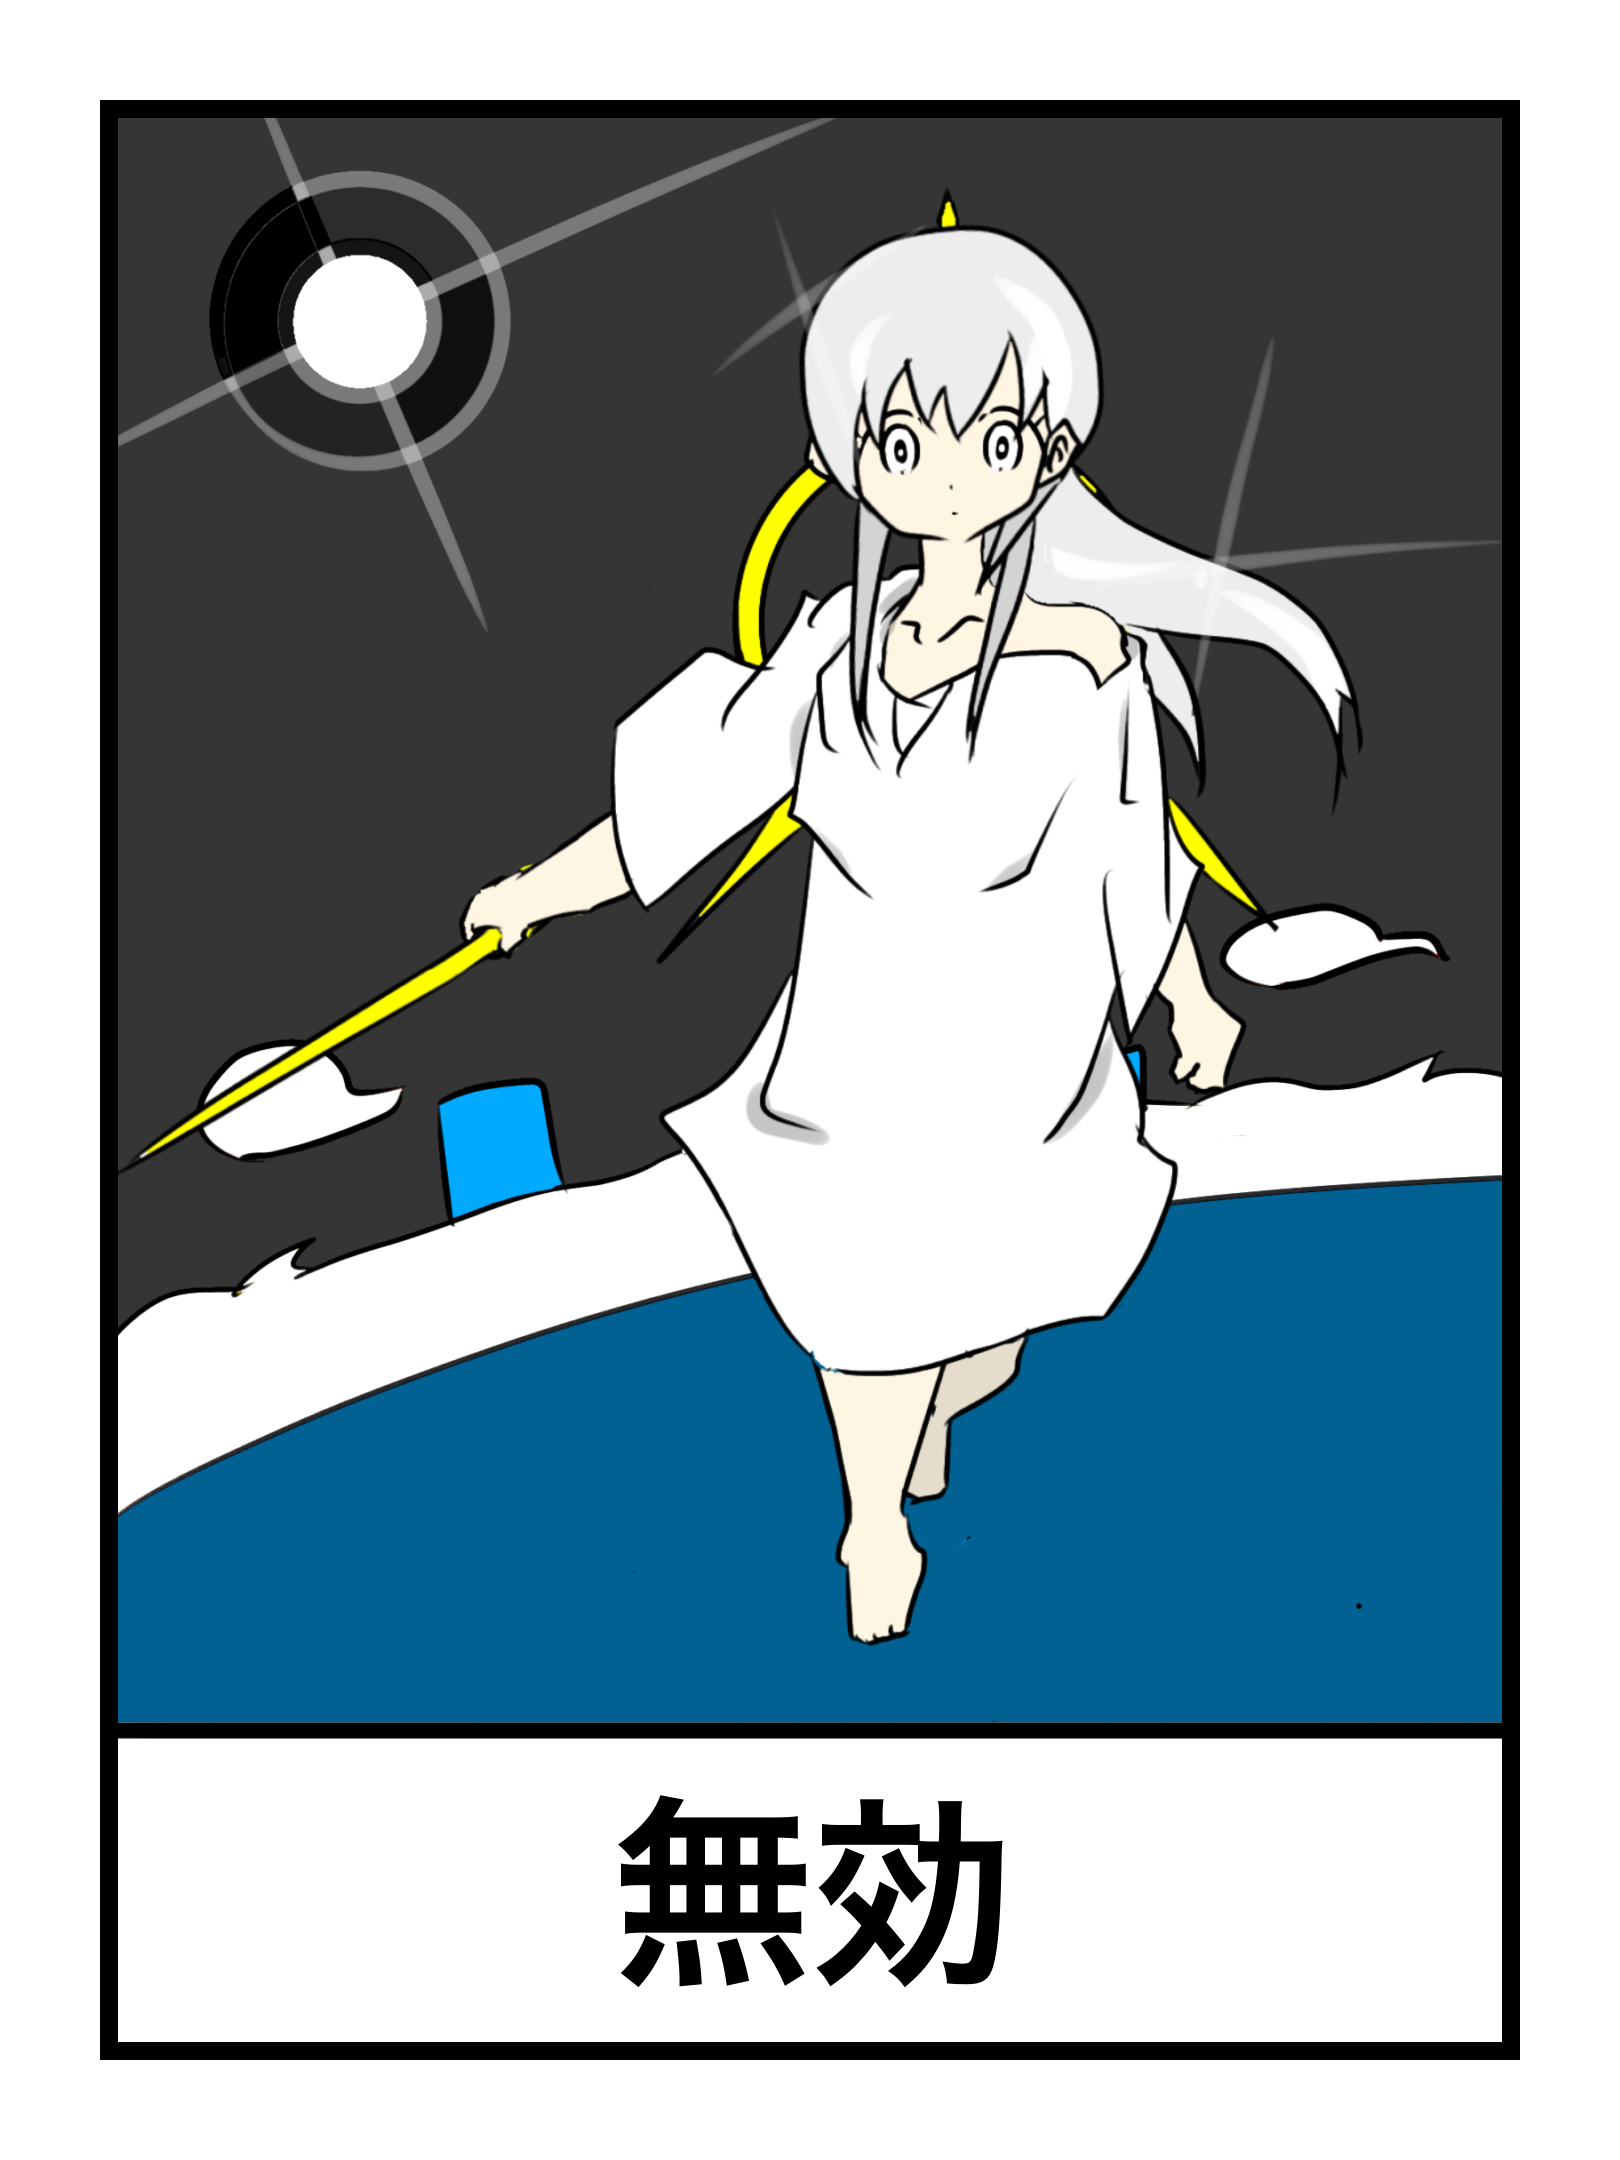
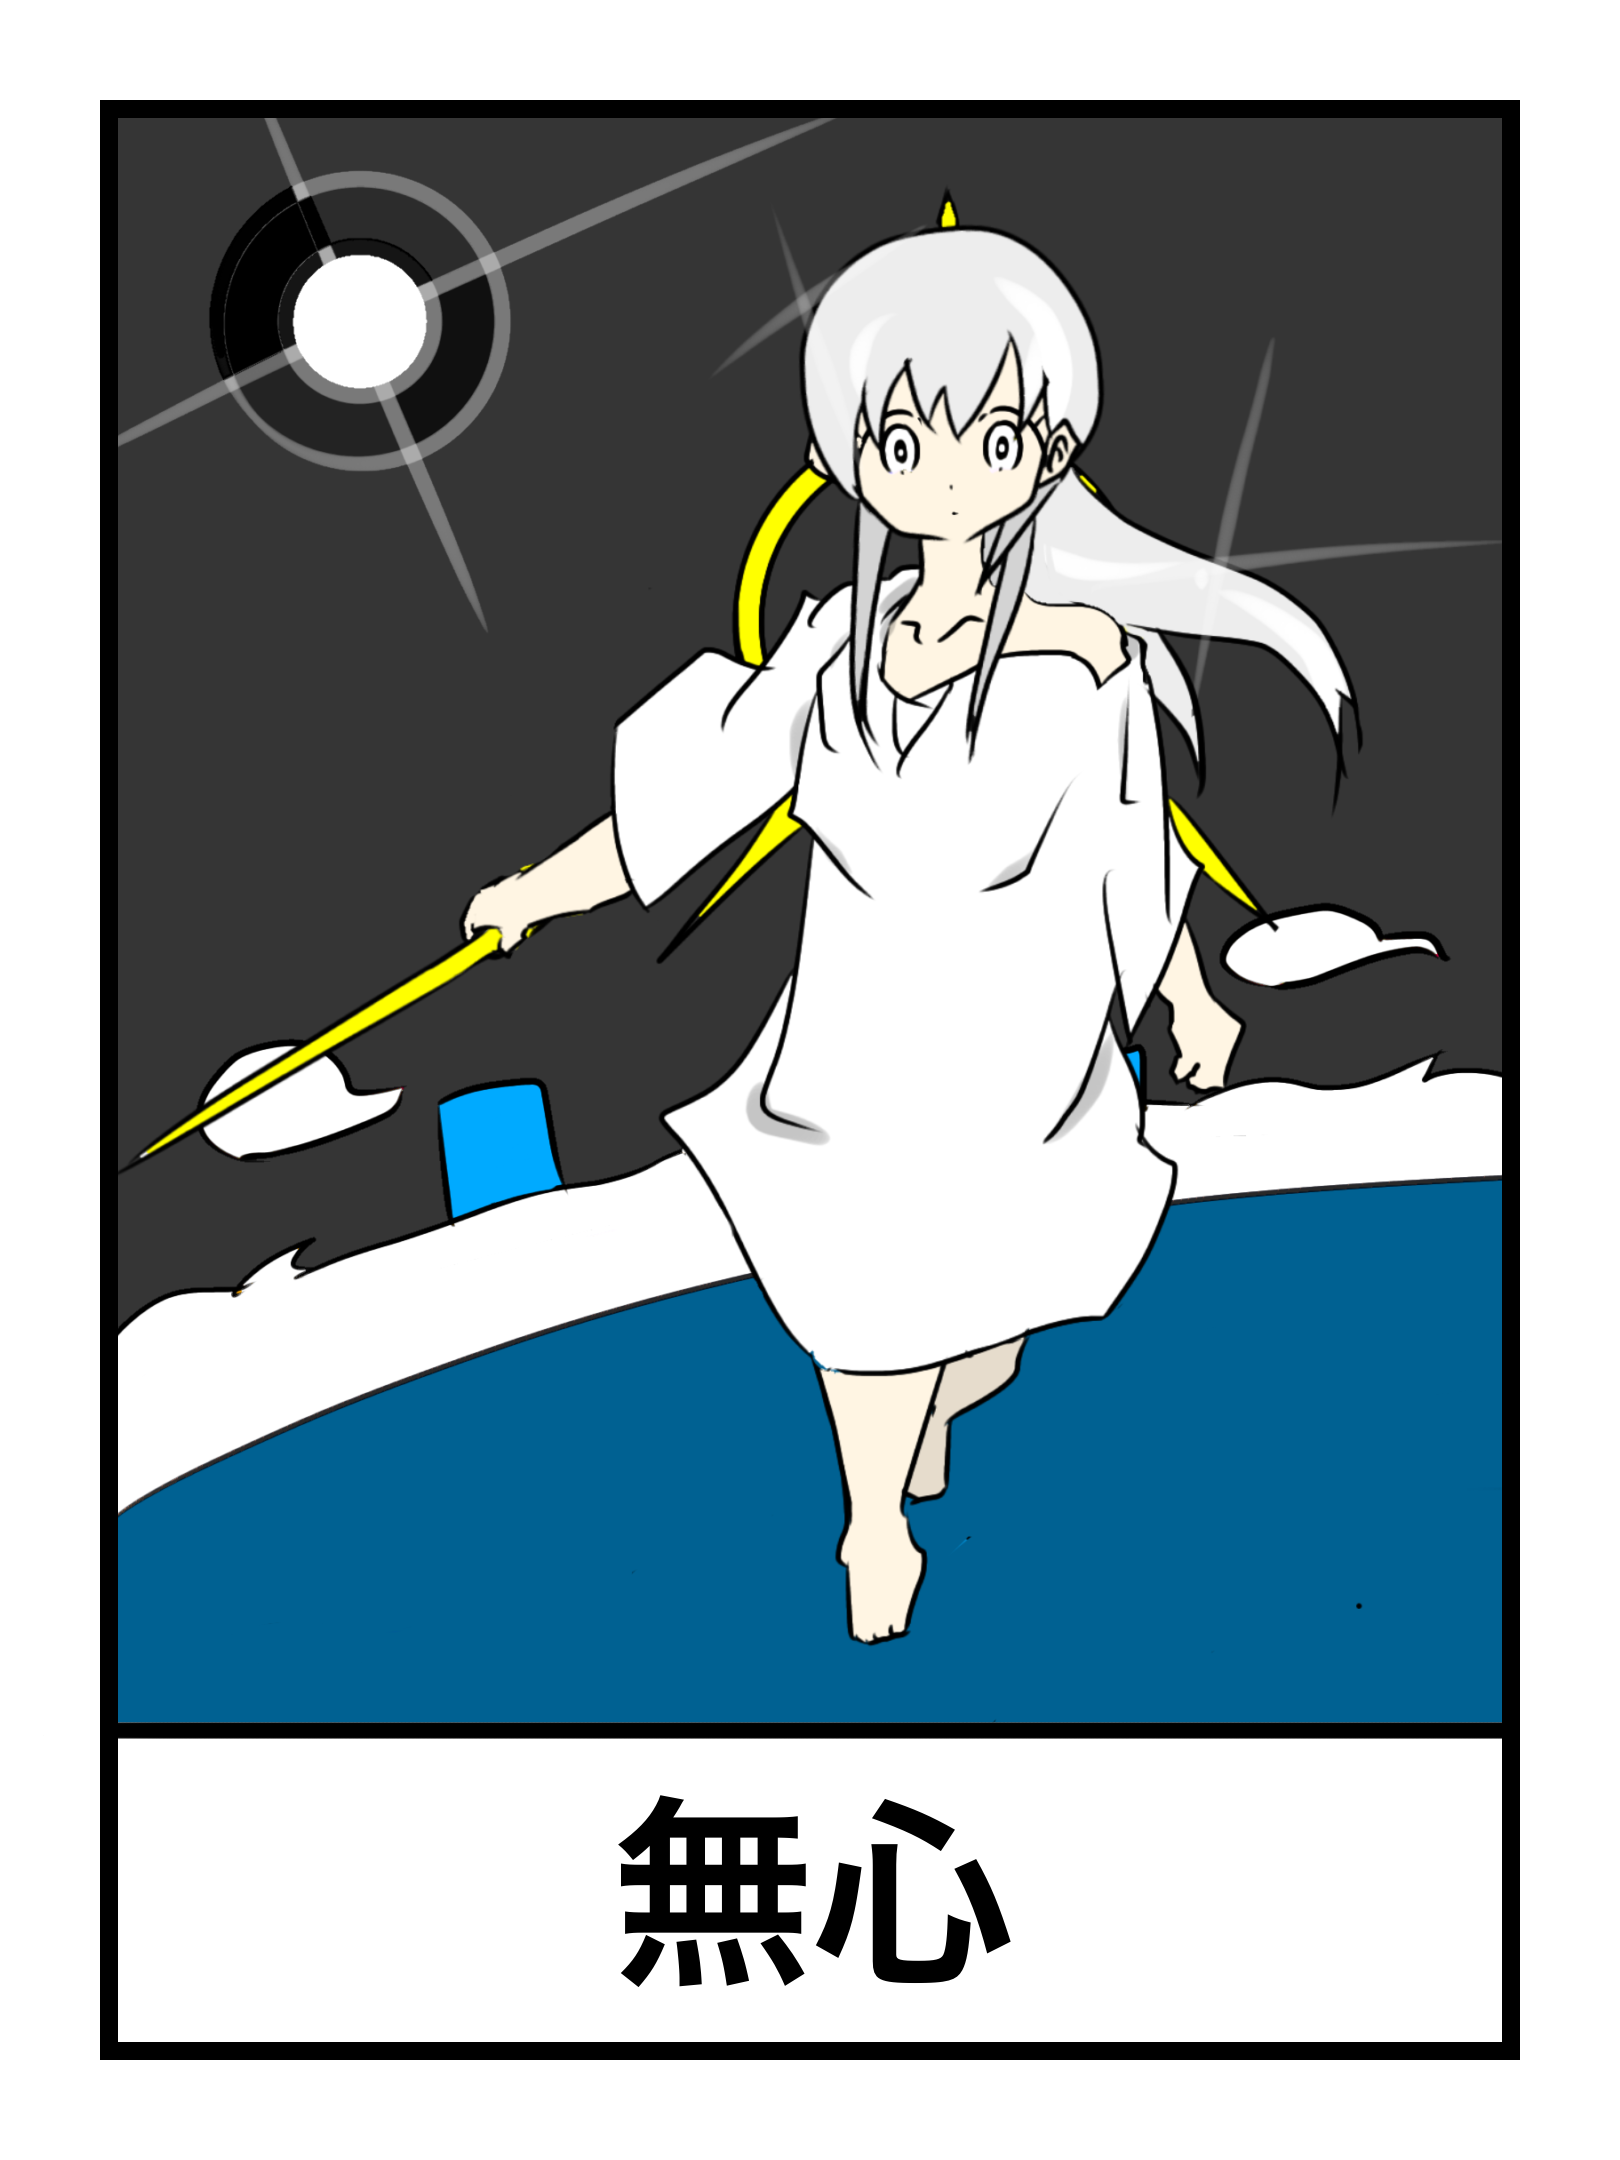
fix

Changed region(s): [[0.4938, 0.8065, 0.6173, 0.9306]]

diff --git a/static/tarot/app.js b/static/tarot/app.js
@@ -1,2 +1,2 @@
-(function(t){function r(r){for(var n,i,c=r[0],p=r[1],l=r[2],f=0,s=[];f<c.length;f++)i=c[f],Object.prototype.hasOwnProperty.call(o,i)&&o[i]&&s.push(o[i][0]),o[i]=0;for(n in p)Object.prototype.hasOwnProperty.call(p,n)&&(t[n]=p[n]);u&&u(r);while(s.length)s.shift()();return a.push.apply(a,l||[]),e()}function e(){for(var t,r=0;r<a.length;r++){for(var e=a[r],n=!0,c=1;c<e.length;c++){var p=e[c];0!==o[p]&&(n=!1)}n&&(a.splice(r--,1),t=i(i.s=e[0]))}return t}var n={},o={app:0},a=[];function i(r){if(n[r])return n[r].exports;var e=n[r]={i:r,l:!1,exports:{}};return t[r].call(e.exports,e,e.exports,i),e.l=!0,e.exports}i.m=t,i.c=n,i.d=function(t,r,e){i.o(t,r)||Object.defineProperty(t,r,{enumerable:!0,get:e})},i.r=function(t){"undefined"!==typeof Symbol&&Symbol.toStringTag&&Object.defineProperty(t,Symbol.toStringTag,{value:"Module"}),Object.defineProperty(t,"__esModule",{value:!0})},i.t=function(t,r){if(1&r&&(t=i(t)),8&r)return t;if(4&r&&"object"===typeof t&&t&&t.__esModule)return t;var e=Object.create(null);if(i.r(e),Object.defineProperty(e,"default",{enumerable:!0,value:t}),2&r&&"string"!=typeof t)for(var n in t)i.d(e,n,function(r){return t[r]}.bind(null,n));return e},i.n=function(t){var r=t&&t.__esModule?function(){return t["default"]}:function(){return t};return i.d(r,"a",r),r},i.o=function(t,r){return Object.prototype.hasOwnProperty.call(t,r)},i.p="/";var c=window["webpackJsonp"]=window["webpackJsonp"]||[],p=c.push.bind(c);c.push=r,c=c.slice();for(var l=0;l<c.length;l++)r(c[l]);var u=p;a.push([0,"chunk-vendors"]),e()})({0:function(t,r,e){t.exports=e("56d7")},"034f":function(t,r,e){"use strict";e("85ec")},"56d7":function(t,r,e){"use strict";e.r(r);var n=e("2b0e"),o=function(){var t=this,r=t.$createElement,e=t._self._c||r;return e("div",{attrs:{id:"app"}},[e("button",{on:{click:t.picker}},[e("i",{staticClass:"far fa-play-circle"}),t._v(" START")]),t.chosenName.file?e("p",[e("img",{attrs:{src:t.chosenName.file}}),t._v(" "),e("img",{attrs:{src:t.cnt.file}})]):e("p",[e("img",{attrs:{src:t.tarotz}})]),e("p"),e("blockquote",[t.chosenName.p?e("p",[t._v(t._s(t.chosenName.p))]):e("p",[e("strong",[t._v("タロットカード")])]),e("p",[t._v(t._s(t.cnt.p))])])])},a=[],i=e("cb11"),c={data(){return{items:i,chosenName:"",cnt:"",tarotz:"/ai/tarot/tarot_card_00.png"}},methods:{picker:function(){var t=Math.floor(Math.random()*i.length),r=Math.floor(Math.random()*i.length);this.chosenName=i[t];while(t===r)r=Math.floor(Math.random()*i.length);this.cnt=i[r];var e=document.querySelector("button");e.remove()}}},p=c,l=(e("034f"),e("2877")),u=Object(l["a"])(p,o,a,!1,null,null,null),f=u.exports;n["a"].config.productionTip=!1,new n["a"]({render:t=>t(f)}).$mount("#app")},"85ec":function(t,r,e){},cb11:function(t){t.exports=JSON.parse('[{"id":"1","h":"夢","file":"/ai/tarot/tarot_card_01.png","p":"願望の成熟"},{"id":"2","h":"忍者","file":"/ai/tarot/tarot_card_02.png","p":"忍耐や隠れ忍ぶこと"},{"id":"3","h":"昼寝","file":"/ai/tarot/tarot_card_03.png","p":"休憩や休息"},{"id":"4","h":"無効","file":"/ai/tarot/tarot_card_04.png","p":"無我や無心"},{"id":"5","h":"天国","file":"/ai/tarot/tarot_card_05.png","p":"居心地や環境"},{"id":"6","h":"金","file":"/ai/tarot/tarot_card_06.png","p":"富とお金"},{"id":"7","h":"太陽","file":"/ai/tarot/tarot_card_07.png","p":"気分や雰囲気"},{"id":"8","h":"玉","file":"/ai/tarot/tarot_card_08.png","p":"元気や身の回りのもの"},{"id":"9","h":"白雪","file":"/ai/tarot/tarot_card_09.png","p":"真っ白や純粋"},{"id":"10","h":"雷帝","file":"/ai/tarot/tarot_card_10.png","p":"雷と衝撃"}]')}});
+(function(t){function r(r){for(var e,i,p=r[0],c=r[1],l=r[2],f=0,u=[];f<p.length;f++)i=p[f],Object.prototype.hasOwnProperty.call(o,i)&&o[i]&&u.push(o[i][0]),o[i]=0;for(e in c)Object.prototype.hasOwnProperty.call(c,e)&&(t[e]=c[e]);d&&d(r);while(u.length)u.shift()();return n.push.apply(n,l||[]),a()}function a(){for(var t,r=0;r<n.length;r++){for(var a=n[r],e=!0,p=1;p<a.length;p++){var c=a[p];0!==o[c]&&(e=!1)}e&&(n.splice(r--,1),t=i(i.s=a[0]))}return t}var e={},o={app:0},n=[];function i(r){if(e[r])return e[r].exports;var a=e[r]={i:r,l:!1,exports:{}};return t[r].call(a.exports,a,a.exports,i),a.l=!0,a.exports}i.m=t,i.c=e,i.d=function(t,r,a){i.o(t,r)||Object.defineProperty(t,r,{enumerable:!0,get:a})},i.r=function(t){"undefined"!==typeof Symbol&&Symbol.toStringTag&&Object.defineProperty(t,Symbol.toStringTag,{value:"Module"}),Object.defineProperty(t,"__esModule",{value:!0})},i.t=function(t,r){if(1&r&&(t=i(t)),8&r)return t;if(4&r&&"object"===typeof t&&t&&t.__esModule)return t;var a=Object.create(null);if(i.r(a),Object.defineProperty(a,"default",{enumerable:!0,value:t}),2&r&&"string"!=typeof t)for(var e in t)i.d(a,e,function(r){return t[r]}.bind(null,e));return a},i.n=function(t){var r=t&&t.__esModule?function(){return t["default"]}:function(){return t};return i.d(r,"a",r),r},i.o=function(t,r){return Object.prototype.hasOwnProperty.call(t,r)},i.p="/";var p=window["webpackJsonp"]=window["webpackJsonp"]||[],c=p.push.bind(p);p.push=r,p=p.slice();for(var l=0;l<p.length;l++)r(p[l]);var d=c;n.push([0,"chunk-vendors"]),a()})({0:function(t,r,a){t.exports=a("56d7")},"034f":function(t,r,a){"use strict";a("85ec")},"56d7":function(t,r,a){"use strict";a.r(r);var e=a("2b0e"),o=function(){var t=this,r=t.$createElement,a=t._self._c||r;return a("div",{attrs:{id:"app"}},[a("button",{on:{click:t.picker}},[a("i",{staticClass:"far fa-play-circle"}),t._v(" START")]),t.chosenName.file?a("p",[a("img",{attrs:{src:t.chosenName.file}}),t._v(" "),a("img",{attrs:{src:t.cnt.file}})]):a("p",[a("img",{attrs:{src:t.tarotz}})]),a("p"),a("blockquote",[t.chosenName.p?a("p",[t._v(t._s(t.chosenName.p))]):a("p",[a("strong",[t._v("タロットカード")])]),a("p",[t._v(t._s(t.cnt.p))])])])},n=[],i=a("cb11"),p={data(){return{items:i,chosenName:"",cnt:"",tarotz:"/ai/tarot/tarot_card_00.png"}},methods:{picker:function(){var t=Math.floor(Math.random()*i.length),r=Math.floor(Math.random()*i.length);this.chosenName=i[t];while(t===r)r=Math.floor(Math.random()*i.length);this.cnt=i[r];var a=document.querySelector("button");a.remove()}}},c=p,l=(a("034f"),a("2877")),d=Object(l["a"])(c,o,n,!1,null,null,null),f=d.exports;e["a"].config.productionTip=!1,new e["a"]({render:t=>t(f)}).$mount("#app")},"85ec":function(t,r,a){},cb11:function(t){t.exports=JSON.parse('[{"id":"1","h":"夢","file":"/ai/tarot/tarot_card_01.png","p":"願いと成就"},{"id":"2","h":"忍者","file":"/ai/tarot/tarot_card_02.png","p":"忍耐や隠匿"},{"id":"3","h":"昼寝","file":"/ai/tarot/tarot_card_03.png","p":"休憩や休息"},{"id":"4","h":"無心","file":"/ai/tarot/tarot_card_04.png","p":"無我や窮地"},{"id":"5","h":"天国","file":"/ai/tarot/tarot_card_05.png","p":"環境や居心地"},{"id":"6","h":"金","file":"/ai/tarot/tarot_card_06.png","p":"富と名声"},{"id":"7","h":"太陽","file":"/ai/tarot/tarot_card_07.png","p":"気分や明るさ"},{"id":"8","h":"玉","file":"/ai/tarot/tarot_card_08.png","p":"元気と力"},{"id":"9","h":"白雪","file":"/ai/tarot/tarot_card_09.png","p":"純粋や純真"},{"id":"10","h":"雷帝","file":"/ai/tarot/tarot_card_10.png","p":"衝動や衝撃"},{"id":"11","h":"破壊","file":"/ai/tarot/tarot_card_11.png","p":"破壊と再生"},{"id":"12","h":"光","file":"/ai/tarot/tarot_card_12.png","p":"希望や期待"},{"id":"13","h":"成功","file":"/ai/tarot/tarot_card_13.png","p":"勝利や確信"},{"id":"14","h":"投球","file":"/ai/tarot/tarot_card_14.png","p":"積極性や主体性"},{"id":"15","h":"時間","file":"/ai/tarot/tarot_card_15.png","p":"過去、現在、未来のどれか"},{"id":"16","h":"箱","file":"/ai/tarot/tarot_card_16.png","p":"感謝や恩返し"},{"id":"17","h":"創造","file":"/ai/tarot/tarot_card_17.png","p":"好きなこと、新しいこと"},{"id":"18","h":"水","file":"/ai/tarot/tarot_card_18.png","p":"形のないものや変化"},{"id":"19","h":"剣士","file":"/ai/tarot/tarot_card_19.png","p":"闘争や競争"}]')}});
 //# sourceMappingURL=app.js.map
